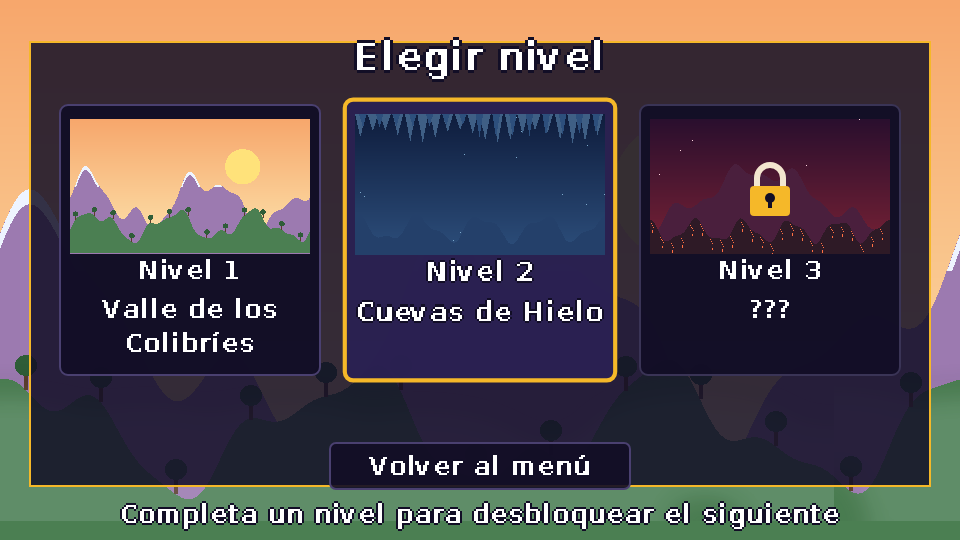
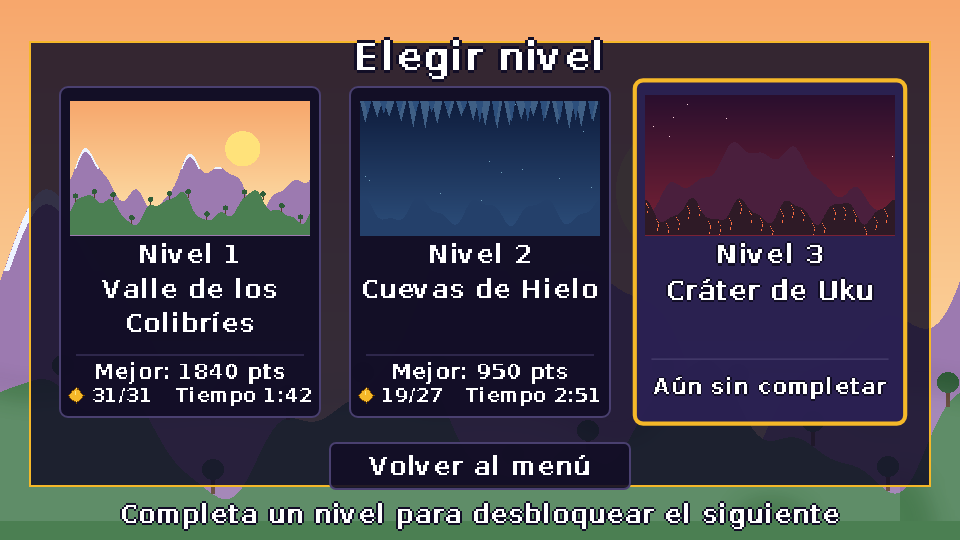
feat: mejores resultados por nivel en el selector; 10 pruebas nuevas

diff --git a/src/scenes/LevelSelectScene.js b/src/scenes/LevelSelectScene.js
@@ -10,7 +10,7 @@ import ParallaxBackground from '../ui/ParallaxBackground.js';
 import TextButton from '../ui/TextButton.js';
 
 const ANCHO_TARJETA = 260;
-const ALTO_TARJETA = 270;
+const ALTO_TARJETA = 330;
 const ESCALA_VISTA = 0.25; // la vista previa es el fondo del nivel a un cuarto de tamaño (240 x 135)
 
 /**
@@ -18,6 +18,8 @@ const ESCALA_VISTA = 0.25; // la vista previa es el fondo del nivel a un cuarto 
  * de su fondo; solo se pueden elegir los niveles ya alcanzados
  * (StorageManager.nivelAlcanzado). Elegir un nivel empieza una partida
  * nueva desde ese nivel, sin tocar la partida guardada de "Continuar".
+ * Cada tarjeta muestra además el mejor resultado de ese nivel (puntos,
+ * fragmentos y tiempo), guardado por StorageManager al completarlo.
  * Navegación: flechas o A/D/W/S, Enter o Espacio, Esc para volver.
  */
 export default class LevelSelectScene extends Phaser.Scene {
@@ -41,7 +43,7 @@ export default class LevelSelectScene extends Phaser.Scene {
     const separacion = ANCHO_TARJETA + 30;
     const inicioX = ANCHO / 2 - ((NIVELES.length - 1) * separacion) / 2;
     this.tarjetas = NIVELES.map((nivel, i) =>
-      this.crearTarjeta(inicioX + i * separacion, 240, nivel, nivel.id <= alcanzado));
+      this.crearTarjeta(inicioX + i * separacion, 252, nivel, nivel.id <= alcanzado));
 
     this.volver = new TextButton(this, ANCHO / 2, ALTO - 74, 'Volver al menú', () => this.irAlMenu(), { ancho: 300, alto: 46 });
     this.volver.on('enfocar', () => this.enfocar(this.tarjetas.length));
@@ -76,11 +78,12 @@ export default class LevelSelectScene extends Phaser.Scene {
     });
     tarjeta.add(vista);
 
-    const numero = this.add.bitmapText(0, 30, FUENTE, `Nivel ${nivel.id}`, 24).setOrigin(0.5)
+    const numero = this.add.bitmapText(0, 2, FUENTE, `Nivel ${nivel.id}`, 24).setOrigin(0.5)
       .setTint(desbloqueado ? COLOR.oro : 0x6a6290);
-    const nombre = this.add.bitmapText(0, 52, FUENTE, desbloqueado ? nivel.nombre : '???', 24).setOrigin(0.5, 0)
+    const nombre = this.add.bitmapText(0, 20, FUENTE, desbloqueado ? nivel.nombre : '???', 24).setOrigin(0.5, 0)
       .setMaxWidth(ANCHO_TARJETA - 20).setCenterAlign().setTint(desbloqueado ? COLOR.lana : 0x6a6290);
     tarjeta.add([numero, nombre]);
+    if (desbloqueado) this.agregarResultado(tarjeta, almacen.resultadoNivel(nivel.id));
 
     if (!desbloqueado) tarjeta.add(this.dibujarCandado(0, -ALTO_TARJETA / 2 + 14 + 67));
 
@@ -89,6 +92,35 @@ export default class LevelSelectScene extends Phaser.Scene {
     tarjeta.on('pointerover', () => this.enfocar(this.tarjetas.indexOf(tarjeta)));
     tarjeta.on('pointerup', () => this.elegir(tarjeta));
     return tarjeta;
+  }
+
+  /**
+   * Franja inferior de la tarjeta con el mejor resultado del nivel:
+   * puntos, fragmentos (en dorado si se recogieron todos) y tiempo.
+   */
+  agregarResultado(tarjeta, resultado) {
+    const base = ALTO_TARJETA / 2 - 58;
+    const linea = this.add.graphics();
+    linea.lineStyle(1, 0x4a4070, 1).lineBetween(-ANCHO_TARJETA / 2 + 16, base - 4, ANCHO_TARJETA / 2 - 16, base - 4);
+    tarjeta.add(linea);
+    if (!resultado) {
+      tarjeta.add(this.add.bitmapText(0, base + 22, FUENTE, 'Aún sin completar', 20).setOrigin(0.5).setTint(0x8a84b0));
+      return;
+    }
+    const { puntos, fragmentos, total, segundos } = resultado;
+    tarjeta.add(this.add.bitmapText(0, base + 12, FUENTE, `Mejor: ${puntos} pts`, 20).setOrigin(0.5).setTint(COLOR.oroClaro));
+
+    const completo = fragmentos >= total;
+    const tiempo = `${Math.floor(segundos / 60)}:${String(segundos % 60).padStart(2, '0')}`;
+    const texto = this.add.bitmapText(0, base + 36, FUENTE, `${fragmentos}/${total}   Tiempo ${tiempo}`, 18)
+      .setOrigin(0, 0.5).setTint(completo ? COLOR.oro : COLOR.lana);
+    const icono = this.add.sprite(0, base + 36, 'fragmento').setScale(0.6);
+    if (completo) icono.play('fragmento-girar'); // todos los fragmentos: el icono gira
+    // Icono + texto centrados juntos
+    const anchoTotal = icono.displayWidth + 6 + texto.width;
+    icono.x = -anchoTotal / 2 + icono.displayWidth / 2;
+    texto.x = icono.x + icono.displayWidth / 2 + 6;
+    tarjeta.add([icono, texto]);
   }
 
   /** Candado dibujado con Graphics (no necesita sprite propio). */

diff --git a/src/managers/StorageManager.js b/src/managers/StorageManager.js
@@ -1,6 +1,7 @@
 /**
- * Persistencia con localStorage: récord, nivel alcanzado, partida guardada
- * y configuración de audio. Todo se guarda en una sola clave JSON.
+ * Persistencia con localStorage: récord, nivel alcanzado, partida guardada,
+ * mejores resultados de cada nivel y configuración de audio.
+ * Todo se guarda en una sola clave JSON.
  * Cada acceso va dentro de try/catch porque algunos navegadores (modo privado,
  * almacenamiento bloqueado) lanzan excepciones; en ese caso el juego sigue
  * funcionando con los datos en memoria.
@@ -13,7 +14,10 @@ const PREDETERMINADO = {
   audio: { silencio: false, volumenMusica: 0.5, volumenEfectos: 0.8 },
   partida: null, // { nivel, puntos, vidas } al comenzar el último nivel alcanzado
   graficos: 'normal', // 'ligero' si el equipo no alcanzó 45 FPS
-  tutorialVisto: false // los carteles del Nivel 1 solo salen la primera vez
+  tutorialVisto: false, // los carteles del Nivel 1 solo salen la primera vez
+  // Mejores resultados por nivel, para el selector:
+  // { 1: { puntos, fragmentos, total, segundos }, ... } (solo niveles completados)
+  niveles: {}
 };
 
 class StorageManager {
@@ -48,6 +52,29 @@ class StorageManager {
   get partida() { return this.datos.partida; }
   get graficosLigeros() { return this.datos.graficos === 'ligero'; }
   get tutorialVisto() { return this.datos.tutorialVisto; }
+
+  /** Mejor resultado guardado de un nivel, o null si nunca se completó. */
+  resultadoNivel(nivel) { return this.datos.niveles[nivel] ?? null; }
+
+  /**
+   * Guarda el resultado de un nivel completado, quedándose con lo mejor de cada
+   * dato por separado: más puntos, más fragmentos y menos tiempo.
+   * Devuelve true si mejoró el puntaje de ese nivel.
+   */
+  registrarResultadoNivel(nivel, { puntos, fragmentos, total, segundos }) {
+    const previo = this.datos.niveles[nivel];
+    const mejoroPuntaje = !previo || puntos > previo.puntos;
+    this.datos.niveles[nivel] = previo
+      ? {
+          puntos: Math.max(previo.puntos, puntos),
+          fragmentos: Math.max(previo.fragmentos, fragmentos),
+          total,
+          segundos: Math.min(previo.segundos, segundos)
+        }
+      : { puntos, fragmentos, total, segundos };
+    this.guardar();
+    return mejoroPuntaje;
+  }
 
   /** Devuelve true si el puntaje supera el récord anterior. */
   actualizarRecord(puntos) {

diff --git a/src/scenes/GameScene.js b/src/scenes/GameScene.js
@@ -259,9 +259,16 @@ export default class GameScene extends Phaser.Scene {
       fragmentos: sesion.fragmentos, total: sesion.fragmentosTotales, segundos, bonoTiempo, bonoVidas, puntos: sesion.puntos
     });
 
-    // Persistencia: récord, nivel alcanzado y partida para "Continuar"
+    // Persistencia: récord, mejor resultado del nivel (para el selector),
+    // nivel alcanzado y partida para "Continuar"
     const siguiente = this.numeroNivel + 1;
     almacen.actualizarRecord(sesion.puntos);
+    almacen.registrarResultadoNivel(this.numeroNivel, {
+      puntos: sesion.puntos - sesion.puntosInicioNivel, // solo lo ganado en este nivel, con bonos
+      fragmentos: sesion.fragmentos,
+      total: sesion.fragmentosTotales,
+      segundos
+    });
     if (siguiente <= TOTAL_NIVELES) {
       almacen.registrarNivel(siguiente);
       almacen.guardarPartida({ nivel: siguiente, puntos: sesion.puntos, vidas: sesion.vidas });

diff --git a/src/scenes/PauseScene.js b/src/scenes/PauseScene.js
@@ -41,8 +41,8 @@ export default class PauseScene extends Phaser.Scene {
     this.add.bitmapText(ANCHO / 2, ALTO - 60, FUENTE, 'Mover: flechas o A/D    Saltar: Espacio    Dash: Shift o X', 24)
       .setOrigin(0.5).setTint(0x8a84b0);
 
-    // Esc o P continúan la partida. Se ignoran justo después de despertar (al volver de
-    // "Cómo jugar" con Esc), para que esa misma pulsación no cierre también la pausa.
+    // Esc o P continúan la partida. Por precaución se ignoran unos instantes al despertar
+    // (al volver de "Cómo jugar" con Esc), para que una pulsación repetida no cierre la pausa.
     this.ignorarTeclasHasta = 0;
     const alContinuar = () => { if (this.time.now >= this.ignorarTeclasHasta) this.continuar(); };
     this.input.keyboard.on('keydown-ESC', alContinuar);

diff --git a/tests/pruebas_funcionales.py b/tests/pruebas_funcionales.py
@@ -134,6 +134,8 @@ with sync_playwright() as p:
     esperar(pg, "T.gs().completando", 3000)
     datos = pg.evaluate("JSON.parse(localStorage.getItem('kusi.fragmentos-del-sol.v1'))")
     ok('meta_guarda_progreso', datos['nivelAlcanzado'] == 2 and datos['partida']['nivel'] == 2 and datos['record'] > 0, datos)
+    res1 = datos.get('niveles', {}).get('1')
+    ok('meta_guarda_resultado_del_nivel', res1 is not None and res1['puntos'] > 0 and res1['total'] == 31 and res1['segundos'] > 0, res1)
     esperar(pg, "T.activa('StoryScene')", 8000)
     pg.wait_for_timeout(300)
     pg.keyboard.press('Escape')
@@ -220,6 +222,57 @@ with sync_playwright() as p:
     pg.keyboard.press('Enter')
     esperar(pg, "T.activa('GameScene') && T.gs().numeroNivel===2", 8000)
     ok('continuar_desde_menu', pg.evaluate("T.estado().puntos") == 300)
+
+    # --- Selector de niveles, tutorial y "Cómo jugar" (menús y ayuda)
+    pg.evaluate("T.d().almacen.reiniciarTodo(); T.g().scene.getScenes(true)[0].scene.start('LevelSelectScene')")
+    esperar(pg, "T.activa('LevelSelectScene')"); pg.wait_for_timeout(500)
+    pg.keyboard.press('ArrowRight'); pg.wait_for_timeout(150)
+    pg.keyboard.press('Enter'); pg.wait_for_timeout(500)
+    ok('selector_no_deja_entrar_a_niveles_bloqueados', pg.evaluate("T.activa('LevelSelectScene') && !T.activa('GameScene')"))
+
+    pg.evaluate("""(()=>{const a=T.d().almacen; a.registrarNivel(2);
+      a.registrarResultadoNivel(1, {puntos: 1500, fragmentos: 31, total: 31, segundos: 95});
+      T.g().scene.getScene('LevelSelectScene').scene.restart();})()""")
+    pg.wait_for_timeout(500)
+    textos = pg.evaluate("T.g().scene.getScene('LevelSelectScene').tarjetas.map(t => t.list.filter(o => o.type === 'BitmapText').map(o => o.text).join(' | '))")
+    ok('selector_muestra_mejor_resultado', 'Mejor: 1500 pts' in textos[0] and '31/31' in textos[0] and 'sin completar' in textos[1] and '???' in textos[2], textos)
+
+    pg.keyboard.press('Enter')   # empieza enfocado el último nivel desbloqueado (2)
+    esperar(pg, "T.activa('GameScene') && T.gs().numeroNivel===2", 8000)
+    pg.wait_for_timeout(300)
+    e = pg.evaluate("T.estado()")
+    ok('selector_empieza_el_nivel_elegido', e['vidas'] == 3 and e['puntos'] == 0, e)
+
+    # Tutorial: sale la primera vez en el nivel 1, se completa con la acción y luego no se repite
+    pg.evaluate("T.d().almacen.marcarTutorialVisto(false); T.d().sesion.nueva(1); T.gs().scene.start('GameScene', {nivel: 1})")
+    esperar(pg, "T.activa('GameScene') && T.gs().numeroNivel===1 && T.gs().jugador", 8000)
+    pg.wait_for_timeout(500)
+    ok('tutorial_sale_la_primera_vez', pg.evaluate("!!T.gs().tutorial && T.gs().tutorial.actual && T.gs().tutorial.actual.columna === 5"))
+    pg.keyboard.down('ArrowRight'); pg.wait_for_timeout(500); pg.keyboard.up('ArrowRight'); pg.wait_for_timeout(200)
+    ok('tutorial_cartel_se_completa_con_la_accion', pg.evaluate("T.gs().tutorial.carteles[0].visto"))
+    pg.evaluate("T.gs().tutorial.carteles.forEach(c => { c.visto = true; })")
+    esperar(pg, "T.gs().tutorial.terminado", 3000)
+    pg.evaluate("T.d().sesion.nueva(1); T.gs().scene.start('GameScene', {nivel: 1})")
+    esperar(pg, "T.activa('GameScene') && T.gs().jugador", 8000)
+    pg.wait_for_timeout(300)
+    ok('tutorial_no_se_repite', pg.evaluate("T.d().almacen.tutorialVisto && T.gs().tutorial === null"))
+
+    # "Cómo jugar" desde la pausa: la partida queda congelada y se vuelve a ella
+    x0 = pg.evaluate("T.estado().x")
+    pg.keyboard.press('Escape'); pg.wait_for_timeout(400)
+    for tecla in ['ArrowDown', 'ArrowDown', 'Enter']:
+        pg.keyboard.press(tecla); pg.wait_for_timeout(200)
+    ok('como_jugar_desde_la_pausa', pg.evaluate("T.activa('HelpScene') && T.g().scene.isPaused('GameScene') && !T.g().scene.isVisible('PauseScene')"))
+    for _ in range(3):
+        pg.keyboard.press('ArrowRight'); pg.wait_for_timeout(150)
+    pg.keyboard.press('1'); pg.wait_for_timeout(150)
+    paginas = pg.evaluate("T.g().scene.getScene('HelpScene').indice")
+    pg.keyboard.press('ArrowLeft'); pg.wait_for_timeout(150)
+    ok('como_jugar_cambia_de_pagina', paginas == 0 and pg.evaluate("T.g().scene.getScene('HelpScene').indice") == 3)
+    pg.keyboard.press('Escape'); pg.wait_for_timeout(400)
+    en_pausa = pg.evaluate("T.activa('PauseScene') && T.g().scene.isVisible('PauseScene') && !T.activa('HelpScene') && T.g().scene.isPaused('GameScene')")
+    pg.keyboard.press('Escape'); pg.wait_for_timeout(400)
+    ok('ayuda_vuelve_a_la_pausa_y_la_partida_sigue', en_pausa and not pg.evaluate("T.g().scene.isPaused('GameScene')") and pg.evaluate("T.estado().x") == x0)
 
     ok('sin_errores_en_consola', len(errores) == 0, errores[:5])
     b.close()

diff --git a/docs/GUIA_TECNICA.md b/docs/GUIA_TECNICA.md
@@ -38,7 +38,7 @@ Cada carpeta tiene una responsabilidad: `scenes` decide el flujo, `objects` el c
 | `BootScene` | Carga solo la fuente pixelada para poder mostrar texto en la pantalla de carga. |
 | `PreloadScene` | Recorre `assetManifest.js`, muestra la barra de progreso, registra errores de carga y crea las animaciones. |
 | `MenuScene` | Nueva partida, Continuar (si hay partida guardada), Elegir nivel, Cómo jugar y Sonido. Muestra récord y nivel alcanzado. |
-| `LevelSelectScene` | Selector de niveles: una tarjeta por nivel con vista previa del fondo; solo se eligen los niveles ya alcanzados (`nivelAlcanzado` en `StorageManager`). |
+| `LevelSelectScene` | Selector de niveles: una tarjeta por nivel con vista previa del fondo y su mejor resultado (`resultadoNivel` en `StorageManager`); solo se eligen los niveles ya alcanzados (`nivelAlcanzado`). |
 | `HelpScene` | "Cómo jugar" en 4 páginas (controles, objetos, enemigos y jefe) con los sprites y sus animaciones reales. Permite repetir el tutorial. |
 | `StoryScene` | Paneles de historia con retrato animado y efecto máquina de escribir. Recibe a dónde ir al terminar. |
 | `GameScene` | Construye el nivel, crea a Kusi, conecta colisiones, cámara y música, y aplica victoria y derrota. |
@@ -131,8 +131,12 @@ Se guarda un único JSON en `localStorage` con la clave `kusi.fragmentos-del-sol
 { "record": 4215, "nivelAlcanzado": 3,
   "audio": { "silencio": false, "volumenMusica": 0.5, "volumenEfectos": 0.8 },
   "partida": { "nivel": 2, "puntos": 870, "vidas": 3 },
-  "graficos": "normal" }
+  "graficos": "normal",
+  "tutorialVisto": true,
+  "niveles": { "1": { "puntos": 1840, "fragmentos": 31, "total": 31, "segundos": 102 } } }
 ```
+
+`niveles` guarda el mejor resultado de cada nivel completado: al cruzar la Puerta del Sol, `GameScene` llama a `registrarResultadoNivel`, que se queda con el máximo de puntos y fragmentos y el mínimo de tiempo por separado. El selector de niveles lo muestra en cada tarjeta.
 
 Todas las lecturas y escrituras están dentro de `try/catch`, porque el almacenamiento puede estar bloqueado (modo privado). En ese caso el juego sigue funcionando con los datos en memoria.
 
@@ -177,7 +181,7 @@ Todas las lecturas y escrituras están dentro de `try/catch`, porque el almacena
 4. **¿Por qué una máquina de estados?** Ordena el comportamiento: cada estado tiene su animación y sus transiciones, y se evitan combinaciones inválidas (por ejemplo, saltar estando muerto).
 5. **¿Qué es el object pooling?** Reutilizar objetos desactivados en vez de crear y destruir. Reduce el trabajo del recolector de basura y evita tirones.
 6. **¿Cómo se garantiza que el HUD no deje oyentes colgados?** Cada suscripción al EventBus se elimina en el evento `shutdown` de la escena.
-7. **¿Qué se guarda en localStorage y por qué con `try/catch`?** Récord, nivel alcanzado, partida, audio y gráficos. El `try/catch` evita que el juego falle si el navegador bloquea el almacenamiento.
+7. **¿Qué se guarda en localStorage y por qué con `try/catch`?** Récord, nivel alcanzado, mejor resultado por nivel, partida, audio, gráficos y si ya se vio el tutorial. El `try/catch` evita que el juego falle si el navegador bloquea el almacenamiento.
 8. **¿Cómo detecta el Neblino el borde de una plataforma?** Consulta la baldosa que está delante y debajo de sus pies; si no hay una baldosa con colisión, da la vuelta.
 9. **¿Cómo se mantiene el rendimiento?** Pooling, texturas precalculadas, fondos recortados, partículas reutilizadas y calidad adaptativa por debajo de 45 FPS.
 10. **¿Qué pasa si el audio no puede reproducirse al inicio?** El AudioManager guarda la música pendiente y la inicia cuando el navegador desbloquea el audio con la primera interacción.

diff --git a/README.md b/README.md
@@ -106,7 +106,7 @@ La explicación detallada de la arquitectura está en [docs/GUIA_TECNICA.md](doc
 | Enemigos, victoria y derrota | Neblino, murciélago, Llama, Atoq, púas, jefe Uku de 3 fases con rayos; Puerta del Sol; sin vidas = Game Over |
 | Arcade Physics, overlaps, triggers, gravedad y rebotes | Gravedad global, tilemap con colisiones de un solo sentido, overlaps de objetos, triggers (apachetas, arena del jefe, meta), resortes y pisotones |
 | Audio | 3 músicas en bucle, 2 jingles y 14 efectos; botón y tecla M para silenciar |
-| Persistencia (localStorage) | Récord, nivel alcanzado (desbloquea niveles en "Elegir nivel"), partida para "Continuar", silencio, modo de gráficos y tutorial ya visto |
+| Persistencia (localStorage) | Récord, nivel alcanzado (desbloquea niveles en "Elegir nivel"), mejor resultado de cada nivel (puntos, fragmentos y tiempo), partida para "Continuar", silencio, modo de gráficos y tutorial ya visto |
 | Responsive y táctil | `Scale.FIT` 960×540, controles táctiles multitáctiles, pantalla completa |
 | Rendimiento | Object pooling, minimapa precalculado, capas de fondo recortadas, calidad adaptativa por debajo de 45 FPS |
 | Accesibilidad | Paleta de alto contraste con contorno en el texto, "Cómo jugar" en 4 páginas con animaciones, tutorial interactivo en el Nivel 1, foco visible con teclado, mute |
@@ -138,7 +138,7 @@ npm run assets
 
 ## Pruebas automatizadas
 
-`tests/pruebas_funcionales.py` recorre el juego en un navegador real y verifica 22 casos. Entre ellos están el movimiento, el salto, los pisotones, el daño, los resortes, los checkpoints, la pausa, el silencio persistente, las losas móviles, el suelo de hielo, el Game Over, el jefe completo, la victoria y "Continuar". Requiere `pip install playwright` y el servidor de desarrollo en marcha.
+`tests/pruebas_funcionales.py` recorre el juego en un navegador real y verifica 32 casos. Entre ellos están el movimiento, el salto, los pisotones, el daño, los resortes, los checkpoints, la pausa, el silencio persistente, las losas móviles, el suelo de hielo, el Game Over, el jefe completo, la victoria, "Continuar", el selector de niveles (bloqueo y mejores resultados), el tutorial del Nivel 1 y "Cómo jugar" desde la pausa. Requiere `pip install playwright` y el servidor de desarrollo en marcha.
 
 ## Créditos
 

diff --git a/docs/AUTOEVALUACION.md b/docs/AUTOEVALUACION.md
@@ -8,7 +8,7 @@
 
 | Criterio | Peso | Autoevaluación | Justificación |
 | --- | --- | --- | --- |
-| Funcionalidad principal | 20 % | __ / 20 | El juego se juega de inicio a fin: menú, selector de niveles, historia, 3 niveles, jefe, victoria, Game Over y reinicio. 22 pruebas automatizadas aprobadas. |
+| Funcionalidad principal | 20 % | __ / 20 | El juego se juega de inicio a fin: menú, selector de niveles, historia, 3 niveles, jefe, victoria, Game Over y reinicio. 32 pruebas automatizadas aprobadas. |
 | Mecánicas de juego | 15 % | __ / 15 | Saltos con tiempo coyote, buffer y altura variable; dash en el suelo y en el aire; plataformas de un solo sentido; resortes; losas móviles; suelo de hielo; checkpoints; enemigos con IA propia (Llama que dispara, Atoq que embiste); jefe con 3 fases y rayos con aviso. |
 | Física y colisiones | 10 % | __ / 10 | Arcade Physics con gravedad, colliders con tilemap, overlaps, triggers (apachetas, meta, arena) y rebotes. |
 | Arquitectura y modularidad | 15 % | __ / 15 | Carpetas `scenes`, `objects`, `ui`, `managers`, `physics`, `audio` y `assets`; máquina de estados reutilizable; EventBus; niveles definidos como datos. |
